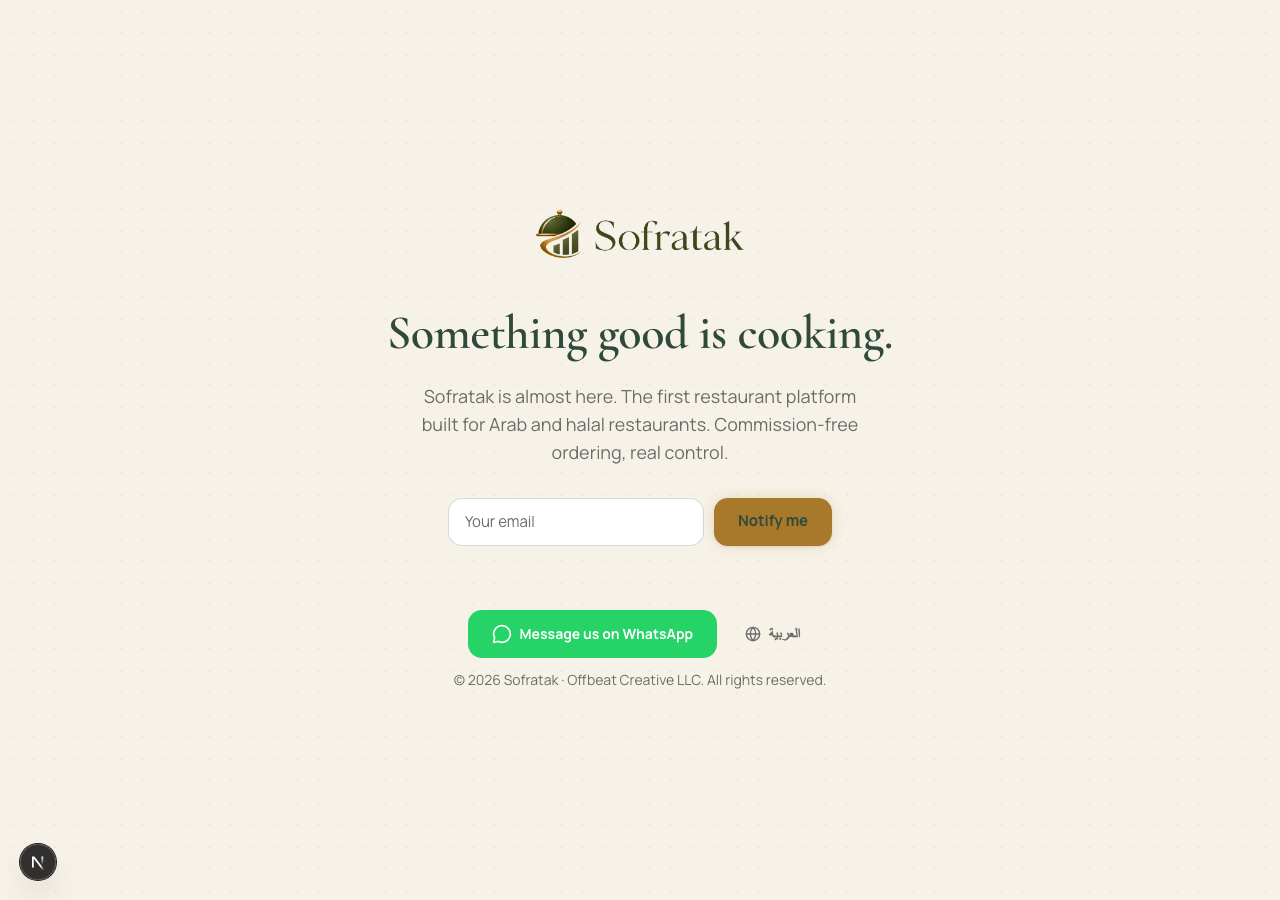
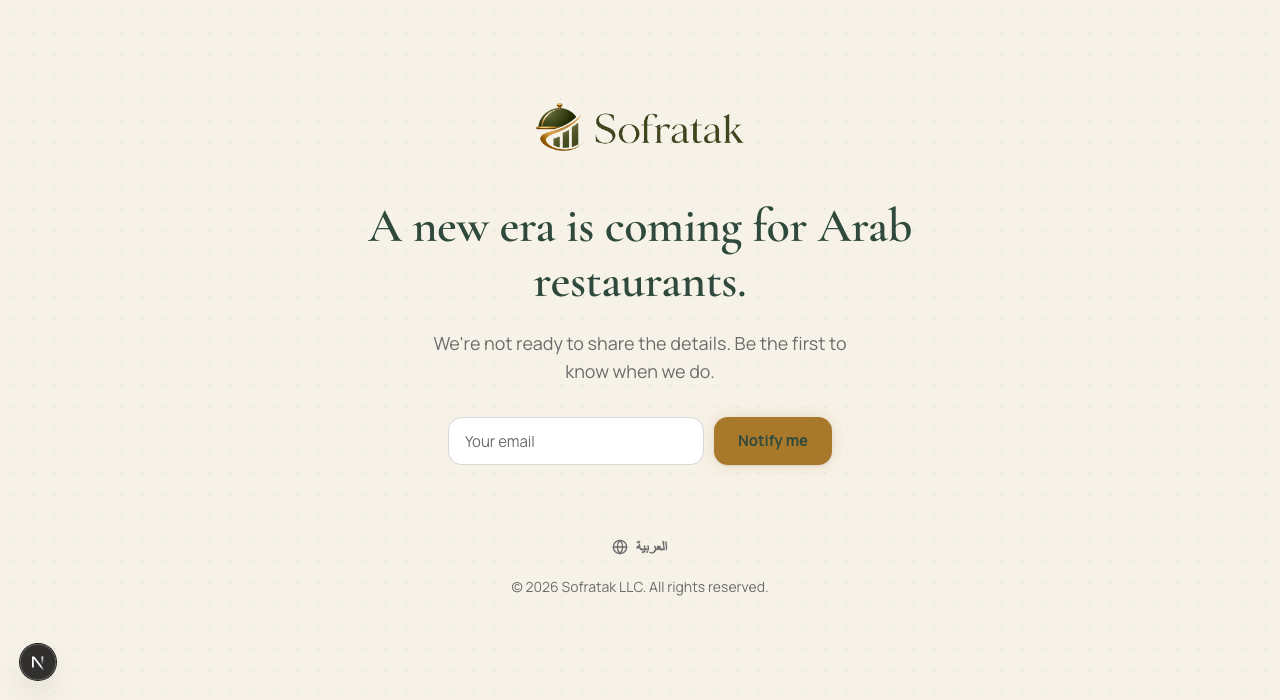
Coming-soon: mysterious headline, drop contact option, Sofratak LLC footer
Zizo's follow-up on the launch gate: headline is now "A new era is
coming for Arab restaurants." with a deliberately vague sub-line — no
mention of the platform, commission-free ordering, or anything else
that reveals what this is yet. Removed the WhatsApp/contact link from
the footer (email capture is the only ask now). Footer copyright now
says "Sofratak LLC" as a placeholder, kept local to this page only —
the real sitewide footer.rights string is untouched.

diff --git a/src/app/[locale]/coming-soon/page.tsx b/src/app/[locale]/coming-soon/page.tsx
@@ -1,6 +1,5 @@
 import type { Metadata } from "next";
-import { getTranslations, setRequestLocale } from "next-intl/server";
-import { WhatsAppLink } from "@/components/marketing/whatsapp-link";
+import { setRequestLocale } from "next-intl/server";
 import { LocaleSwitcher } from "@/components/LocaleSwitcher";
 import { COMING_SOON_COPY } from "@/content/coming-soon";
 import { ComingSoonEmailForm } from "./email-form";
@@ -29,8 +28,7 @@ export default async function ComingSoonPage({
 }) {
   const { locale } = await params;
   setRequestLocale(locale);
-  const tFooter = await getTranslations("footer");
-  const year = new Date().getFullYear();
+  const copyright = COMING_SOON_COPY.copyright.replace("{year}", String(new Date().getFullYear()));
 
   return (
     <div className="texture-dots flex min-h-dvh flex-col items-center justify-center bg-ivory px-4 py-10 text-center">
@@ -57,11 +55,8 @@ export default async function ComingSoonPage({
       </div>
 
       <footer className="mt-16 flex flex-col items-center gap-3 text-sm text-stone">
-        <div className="flex items-center gap-4">
-          <WhatsAppLink className="h-10 px-4 text-sm" />
-          <LocaleSwitcher className="text-stone hover:text-olive" />
-        </div>
-        <p>{tFooter("rights", { year })}</p>
+        <LocaleSwitcher className="text-stone hover:text-olive" />
+        <p dir="ltr">{copyright}</p>
       </footer>
     </div>
   );

diff --git a/src/content/coming-soon.ts b/src/content/coming-soon.ts
@@ -10,8 +10,16 @@
  * When Zizo approves Arabic copy: replace this with an { en, ar } shape
  * and read the current locale in the page, the same way founder-story.ts
  * is gated today.
+ *
+ * No contact/WhatsApp link on this page on purpose (Zizo: keep it to just
+ * the email capture) — the "notify me" form is the only ask.
  */
 export const COMING_SOON_COPY = {
-  headline: "Something good is cooking.",
-  sub: "Sofratak is almost here. The first restaurant platform built for Arab and halal restaurants. Commission-free ordering, real control.",
+  headline: "A new era is coming for Arab restaurants.",
+  // Deliberately vague — Zizo doesn't want to say what this is yet.
+  sub: "We're not ready to share the details. Be the first to know when we do.",
+  // "Sofratak LLC" is a placeholder for the real entity name — swap when
+  // that's finalized. Not the sitewide footer.rights string on purpose:
+  // that one still correctly says Offbeat Creative LLC everywhere else.
+  copyright: "© {year} Sofratak LLC. All rights reserved.",
 };

diff --git a/docs/PROGRESS.md b/docs/PROGRESS.md
@@ -1,5 +1,28 @@
 # Sofratak — Progress Log
 
+## 2026-08-27 (cont. 2) — Coming-soon copy revision
+
+Zizo's follow-up: don't reveal what the product is yet, drop the
+WhatsApp/contact option (keep the wall to just the email capture), and
+swap the footer entity name to "Sofratak LLC" for now.
+
+- Headline → "A new era is coming for Arab restaurants." Sub is now
+  deliberately vague ("We're not ready to share the details. Be the
+  first to know when we do.") — no mention of restaurant-platform,
+  commission-free ordering, or anything else that gives away the
+  mechanism. Still English-only/unreviewed-Arabic-pending per the
+  standing rule.
+- Removed the `<WhatsAppLink>` from the page footer entirely — this
+  page's only ask is the email form now.
+- Footer copyright is no longer the sitewide `footer.rights` string
+  (which correctly still says Offbeat Creative LLC everywhere else on
+  the site) — added a page-local `COMING_SOON_COPY.copyright` template
+  ("© {year} Sofratak LLC. All rights reserved.") so only this one
+  temporary page carries the placeholder entity name.
+
+Re-verified EN + AR/RTL at 390px and 1280px, tsc/eslint clean.
+Screenshots re-taken (docs/launch-coming-soon-*.png).
+
 ## 2026-08-27 (cont.) — Launch coming-soon maintenance gate (docs/launch-coming-soon-spec.md)
 
 Launch blocker per Zizo: get sofratak.com showing a real holding page
